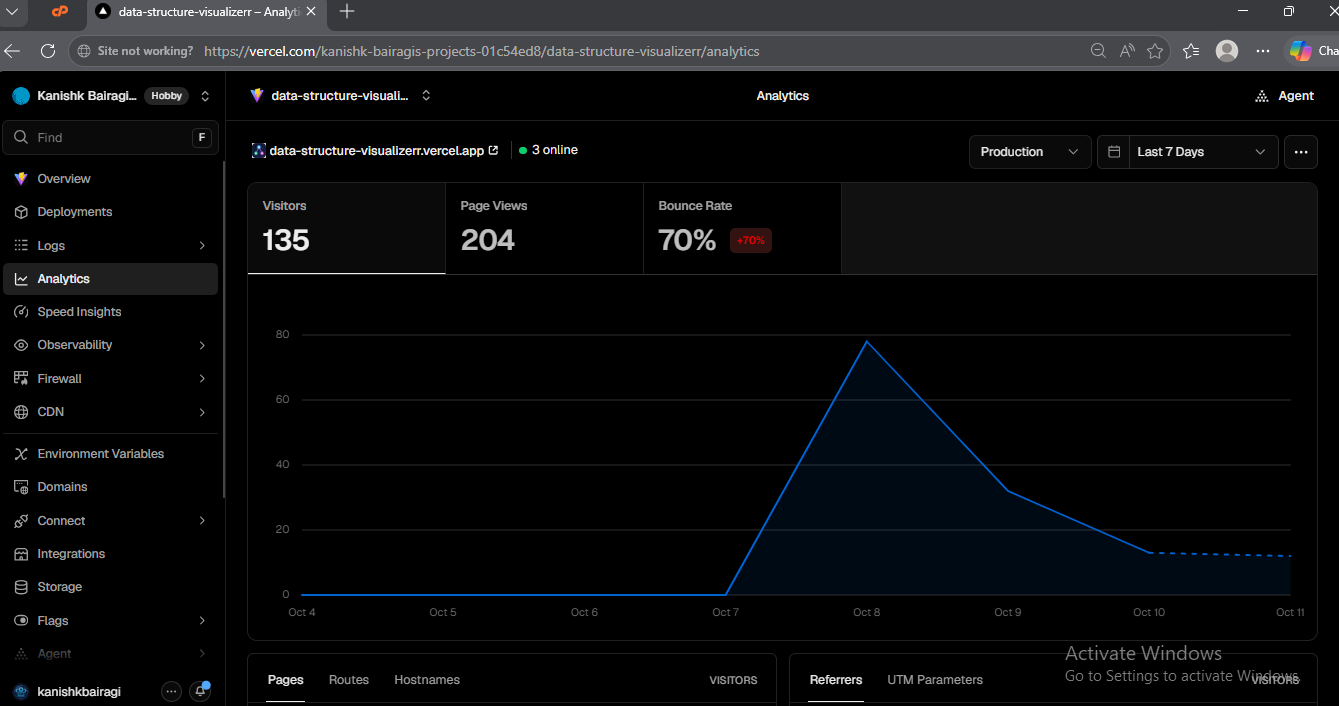
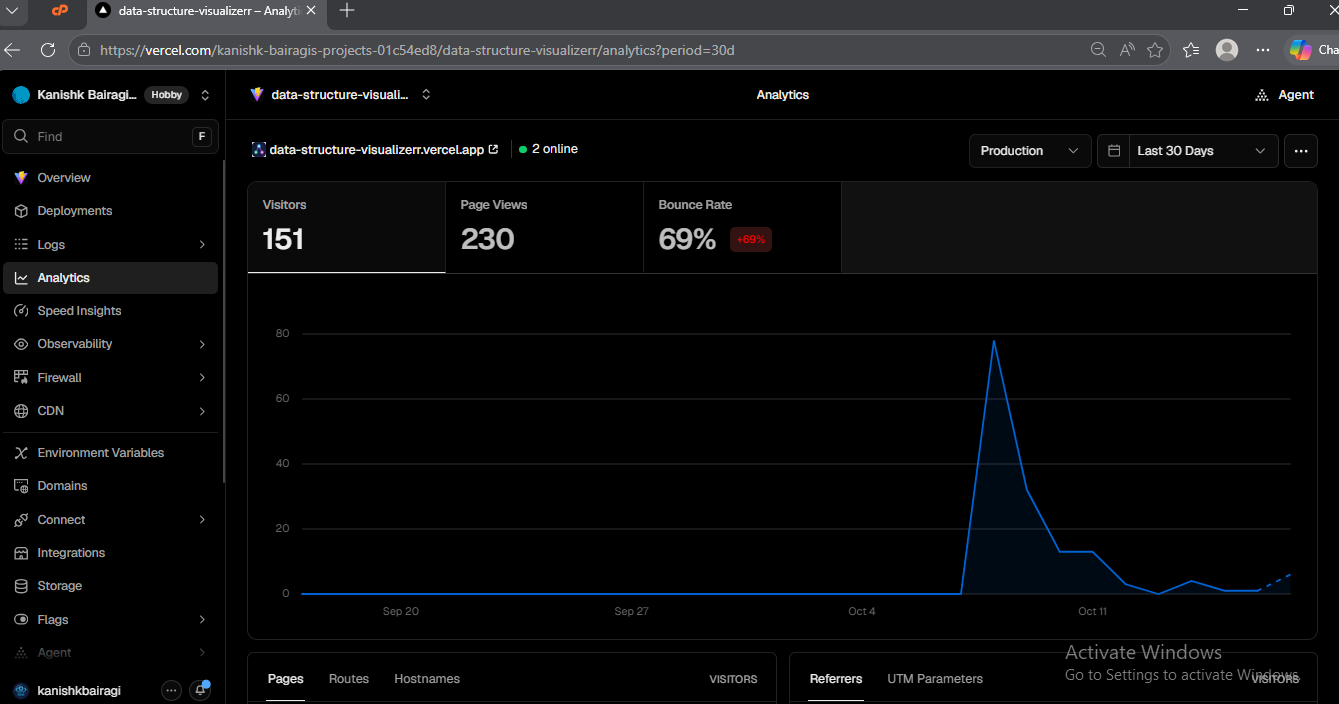
Changed

diff --git a/src/data/projects.js b/src/data/projects.js
@@ -5,6 +5,8 @@ import notationsImg from '../assets/projects/notations.png';
 import habitGraphImg from '../assets/projects/Habit-graph.png';
 import data1Img from '../assets/data1.png';
 import data2Img from '../assets/data2.png';
+import note1Img from '../assets/note1.png';
+import note2Img from '../assets/note2.png';
 
 export const projects = [
     {
@@ -115,12 +117,12 @@ export const projects = [
         demo: "https://data-structure-visualizerr.vercel.app",
         image: dataStructureImg,
         metaBadges: [
-            "135+ Verified Users (8 Countries)",
+            "151+ Verified Users (9 Countries)",
             "O(log N) AVL Guaranteed",
             "Vercel Telemetry"
         ],
-        description: "Built an interactive execution engine to help students visualize abstract data structures and runtime invariants in real time. Features animated AVL tree self-balancing across all 4 rotation archetypes, Dijkstra's shortest path relaxation, and contiguous dynamic array buffer doubling (C -> 2C). Validated by 135+ international students across 8 countries.",
-        overviewDescription: "Built an interactive execution engine to help students visualize abstract data structures and runtime invariants in real time. Features animated AVL tree self-balancing across all 4 rotation archetypes, Dijkstra's shortest path relaxation, and contiguous dynamic array buffer doubling (C -> 2C). Validated by 135+ international students across 8 countries during computer science coursework.",
+        description: "Built an interactive execution engine to help students visualize abstract data structures and runtime invariants in real time. Features animated AVL tree self-balancing across all 4 rotation archetypes, Dijkstra's shortest path relaxation, and contiguous dynamic array buffer doubling (C -> 2C). Validated by 151+ international students across 9 countries.",
+        overviewDescription: "Built an interactive execution engine to help students visualize abstract data structures and runtime invariants in real time. Features animated AVL tree self-balancing across all 4 rotation archetypes, Dijkstra's shortest path relaxation, and contiguous dynamic array buffer doubling (C -> 2C). Validated by 151+ international students across 9 countries during computer science coursework.",
         cardHighlights: [
             "Dynamic AVL Self-Balancing with 4 Rotation Archetypes (LL, RR, LR, RL) maintaining strict O(log N) search bounds.",
             "Dijkstra's Shortest Path Tree (SPT) with Real-Time Distance Vector Relaxation & Priority Queue simulation."
@@ -129,7 +131,7 @@ export const projects = [
             "Dynamic AVL Self-Balancing with 4 Rotation Archetypes (LL, RR, LR, RL) enforcing height bounds h < 1.44 log2(N+2).",
             "Dijkstra's Shortest Path Tree (SPT) with real-time distance-vector relaxation and Priority Queue extraction.",
             "Trie lexicographical traversal with prefix search in O(L) time where L is word length.",
-            "Amortized analysis demonstrator with buffer doubling (C -> 2C); evaluated by 135+ international student users across 8 countries with 82% mobile engagement."
+            "Amortized analysis demonstrator with buffer doubling (C -> 2C); evaluated by 151+ international student users across 9 countries with 79% mobile engagement."
         ],
         metrics: [
             { label: "Core ADTs", value: "7 Structures" },
@@ -147,27 +149,28 @@ export const projects = [
         extraSkillsCount: 4,
         telemetry: {
             title: "Production Telemetry & Real-World Adoption",
+            badgeText: "151+ Users Across 9 Countries",
             description: "Empirical telemetry and interaction metrics collected from Vercel analytics demonstrating international student usage and cross-platform verification.",
             stats: [
-                { label: "Verified Users", value: "135+ Students", sub: "Peak Interaction" },
-                { label: "Interaction Sessions", value: "200+ Page Views", sub: "Algorithmic Runs" },
-                { label: "Global Reach", value: "8 Countries", sub: "Multi-Region" },
-                { label: "Mobile Responsiveness", value: "82% Mobile", sub: "Cross-Platform" }
+                { label: "Verified Users", value: "151+ Visitors", sub: "Production Users" },
+                { label: "Interaction Sessions", value: "230+ Page Views", sub: "Algorithmic Runs" },
+                { label: "Global Reach", value: "9 Countries", sub: "India, US, UK & EU" },
+                { label: "Mobile Responsiveness", value: "79% Mobile", sub: "Cross-Platform" }
             ],
             screenshots: [
                 {
                     id: 1,
                     title: "Live Traffic & Interaction Peak",
-                    metricBadge: "135+ Unique Visitors • 200+ Page Views",
+                    metricBadge: "151+ Unique Visitors • 230+ Page Views",
                     image: data1Img,
-                    caption: "Live Traffic Telemetry: 135+ verified student users and 200+ algorithmic interaction sessions."
+                    caption: "Live Traffic Telemetry: 151+ verified unique student visitors and 230+ algorithmic interaction page views."
                 },
                 {
                     id: 2,
                     title: "Geographic Distribution & Device Breakdown",
-                    metricBadge: "8 Countries • 82% Mobile Responsiveness",
+                    metricBadge: "9 Countries • 79% Mobile Responsiveness",
                     image: data2Img,
-                    caption: "Global Demographics: Multi-region adoption across 8 countries (India, USA, UK, Switzerland, France, etc.) with 82% mobile & 17% desktop usage."
+                    caption: "Global Demographics: Multi-region adoption across 9 countries (India: 134, USA: 9, UK: 2, Netherlands: 2, Switzerland, France, Philippines, Poland, Singapore) with 79% mobile & 20% desktop usage."
                 }
             ]
         },
@@ -223,7 +226,7 @@ export const projects = [
                 { metric: "TRIE LOOKUP TIME", value: "O(L)", benchmark: "Sub-linear Prefix Traversal", status: "Optimal" },
                 { metric: "ARRAY APPEND COST", value: "Amortized O(1)", benchmark: "Verified via Buffer Doubling", status: "Optimal" },
                 { metric: "RENDERING TARGET", value: "60 FPS", benchmark: "Throttled Async Frame Queue", status: "Optimal" },
-                { metric: "ACADEMIC ADOPTION", value: "135+ Verified Users", benchmark: "8 Countries • Vercel Telemetry", status: "Telemetry" }
+                { metric: "ACADEMIC ADOPTION", value: "151+ Verified Users", benchmark: "9 Countries • Vercel Telemetry", status: "Telemetry" }
             ]
         }
     },
@@ -277,13 +280,19 @@ export const projects = [
         github: "https://github.com/kanishkbairagi/notation-app.git",
         demo: "https://notation-app-six.vercel.app/",
         image: notationsImg,
-        description: "A graph-based knowledge base that combines an interactive force-directed graph with an Okapi BM25 search engine. Simulates graph layout using Coulomb repulsion and Hooke spring physics on HTML5 Canvas at 60 FPS. Features sub-2ms search queries powered by an inverted index and prefix Trie, along with BFS shortest-path traversal between connected notes.",
+        metaBadges: [
+            "52+ Verified Users (7 Countries)",
+            "BM25 Sub-2ms Queries",
+            "Vercel Telemetry"
+        ],
+        description: "A graph-based knowledge base that combines an interactive force-directed graph with an Okapi BM25 search engine. Simulates graph layout using Coulomb repulsion and Hooke spring physics on HTML5 Canvas at 60 FPS. Features sub-2ms search queries powered by an inverted index and prefix Trie, along with BFS shortest-path traversal between connected notes. Evaluated by 52+ users across 7 countries.",
+        overviewDescription: "A graph-based knowledge base combining an interactive force-directed graph with an Okapi BM25 search engine. Simulates graph layout using Coulomb repulsion and Hooke spring physics on HTML5 Canvas at 60 FPS with sub-2ms queries. Validated by 52+ global users across 7 countries.",
         highlights: [
             "Force-Directed Physics on HTML5 Canvas: Coulomb repulsion, Hooke spring attraction & damping velocity relaxation at 60 FPS",
             "Okapi BM25 Probabilistic Ranking: Calibrated term saturation (k1=1.2) and document length normalization (b=0.75)",
             "Inverted Index & Prefix Trie: In-memory postings list Map<Term, PostingsList> with sub-2ms O(L) prefix autocomplete",
             "Graph Theory Analytics: Degree Centrality CD(v) = deg(v)/(|V|-1) and BFS Shortest Path traversal in O(|V| + |E|)",
-            "AST-Driven Knowledge Graph: Bidirectional [[WikiLink]] parsing into an adjacency list with backlinks drawer"
+            "AST-Driven Knowledge Graph: Bidirectional [[WikiLink]] parsing into an adjacency list with backlinks drawer; verified by 52+ visitors across 7 countries with 75% mobile usage."
         ],
         metrics: [
             { label: "Graph Engine", value: "Force-Directed G=(V,E)" },
@@ -301,6 +310,33 @@ export const projects = [
             "React.js"
         ],
         extraSkillsCount: 3,
+        telemetry: {
+            title: "Production Telemetry & Real-World Adoption",
+            badgeText: "52+ Users Across 7 Countries",
+            description: "Empirical telemetry and interaction metrics collected from Vercel analytics demonstrating multi-region usage and cross-device interaction.",
+            stats: [
+                { label: "Verified Users", value: "52+ Visitors", sub: "Production Users" },
+                { label: "Interaction Sessions", value: "80+ Page Views", sub: "Graph Explorations" },
+                { label: "Global Reach", value: "7 Countries", sub: "India, US, EU, BR" },
+                { label: "Mobile Responsiveness", value: "75% Mobile", sub: "Cross-Platform" }
+            ],
+            screenshots: [
+                {
+                    id: 1,
+                    title: "Live Traffic & Query Engagement",
+                    metricBadge: "52+ Unique Visitors • 80+ Page Views",
+                    image: note1Img,
+                    caption: "Live Traffic Telemetry: 52+ verified unique visitors and 80+ knowledge graph interaction sessions."
+                },
+                {
+                    id: 2,
+                    title: "Geographic Distribution & Device Breakdown",
+                    metricBadge: "7 Countries • 75% Mobile Responsiveness",
+                    image: note2Img,
+                    caption: "Global Demographics: Multi-region adoption across 7 countries (India: 42, USA: 4, Brazil, Germany, Spain, France, Greece, Sweden) with 75% mobile & 25% desktop usage."
+                }
+            ]
+        },
         caseStudy: {
             bannerTitle: "Technical Design Document (RFC) & Information Retrieval Architecture Spec",
             bannerDescription: "Technical design document detailing the HTML5 Canvas physics solver, Okapi BM25 search engine, prefix Trie autocomplete, and bidirectional graph backlinks.",
@@ -353,7 +389,8 @@ export const projects = [
                 { metric: "BFS Pathfinding", value: "O(|V| + |E|)", benchmark: "Shortest Path Traversal", status: "Optimal" },
                 { metric: "Prefix Lookup", value: "O(L)", benchmark: "Trie Stem Autocomplete", status: "Optimal" },
                 { metric: "Graph Simulation", value: "60 FPS", benchmark: "Damped Euler Numerical Solver", status: "Optimal" },
-                { metric: "Centrality Metric", value: "Degree CD(v)", benchmark: "Hub Node Identification", status: "Optimal" }
+                { metric: "Centrality Metric", value: "Degree CD(v)", benchmark: "Hub Node Identification", status: "Optimal" },
+                { metric: "GLOBAL ADOPTION", value: "52+ Verified Users", benchmark: "7 Countries • Vercel Telemetry", status: "Telemetry" }
             ]
         }
     },

diff --git a/src/components/ProjectModal.jsx b/src/components/ProjectModal.jsx
@@ -374,7 +374,7 @@ const ProjectModal = ({ project, isOpen, onClose }) => {
                                             <div className="flex items-center gap-1.5 shrink-0">
                                                 <span className="inline-flex items-center gap-1 rounded-full border border-accent/30 bg-accent/10 px-2.5 py-0.5 text-[10px] sm:text-xs font-semibold text-accent">
                                                     <Activity size={11} className="animate-pulse" />
-                                                    135+ Users Across 8 Countries
+                                                    {project.telemetry.badgeText || "Production Telemetry"}
                                                 </span>
                                             </div>
                                         </div>

diff --git a/src/components/Hero.jsx b/src/components/Hero.jsx
@@ -87,7 +87,7 @@ const Hero = () => {
                         transition={{ delay: 0.3 }}
                         className="mt-5 max-w-xl text-base leading-relaxed text-zinc-400 sm:text-lg"
                     >
-                        I can engineer, deploy, secure and improve a complete software system and integrate AI when it provides real value.
+                        I can build, deploy, secure and improve a complete software system and integrate AI when it provides real value.
                     </motion.p>
 
                     <motion.div

diff --git a/README.md b/README.md
@@ -36,7 +36,7 @@ Beyond conventional portfolio websites, this platform functions as an **interact
 
 - ⚡ **Zero Layout Shift (CLS 0.00)** & sub-1.1s First Contentful Paint (FCP) across 46 enterprise routes.
 - 🌳 **Interactive Invariant Visualizer** with verified runtime bounds: $O(\log N)$ AVL tree balance and $O((V+E)\log V)$ Dijkstra shortest path trees.
-- 🌍 **Verified Real-World Telemetry**: Production visualizer evaluated by **135+ international students across 8 countries** with 82% cross-platform mobile adoption.
+- 🌍 **Verified Real-World Telemetry**: Production visualizer evaluated by **151+ international students across 9 countries** with 79% cross-platform mobile adoption.
 - 📐 **Formal Graph Theory Engines**: Directed Acyclic Graph (DAG) cycle rejection via 3-color DFS in $O(|V| + |E|)$ and Kahn’s topological sort.
 - 🔍 **Sub-2ms Information Retrieval**: Canvas-based $n$-body force-directed physics graph with Okapi BM25 probabilistic ranking ($k_1=1.2, b=0.75$) and prefix Trie lookup in $O(L)$ time.
 
@@ -47,8 +47,8 @@ Beyond conventional portfolio websites, this platform functions as an **interact
 | Project | Domain & Role | Core Architecture & Algorithmic Rigor | Key Metrics & Invariants | Links |
 | :--- | :--- | :--- | :--- | :--- |
 | **[Jawam Infotech Official Platform](https://jawaminfotech.com/)** | Enterprise Full-Stack & Frontend Intern (2026) | 46-route React SPA with route-level dynamic code splitting (`React.lazy` / `Suspense`), chunked streaming AI response handling, and automated WebP/AVIF media compression. | **Lighthouse 96+**<br>FCP: 1.05s, LCP: 1.78s<br>Media payload: **-72%** (45MB → 8.2MB) | [Live Demo](https://jawaminfotech.com/) • [GitHub](https://github.com/kanishkbairagi/Jawam-project.git) |
-| **[Algorithmic State Engine & Visualizer](https://data-structure-visualizerr.vercel.app)** | Algorithm & Systems Engineering (2025) | Interactive state engine animating AVL tree rotations across 4 archetypes (LL, RR, LR, RL), Dijkstra shortest-path relaxation, and contiguous dynamic array buffer doubling. | **135+ Verified Users** (8 Countries)<br>AVL Search: $O(\log N)$<br>Dijkstra: $O((V+E)\log V)$<br>Append: Amortized $O(1)$ | [Live Demo](https://data-structure-visualizerr.vercel.app) • [GitHub](https://github.com/kanishkbairagi/data-structure-visualizerr) |
-| **[Topological Knowledge Graph & IR Engine](https://notation-app-six.vercel.app/)** | Systems & Information Retrieval (2025) | HTML5 Canvas $n$-body force-directed physics engine (Coulomb repulsion & Hooke spring relaxation), Okapi BM25 statistical ranking, prefix Trie autocomplete, and BFS pathfinding. | Query Latency: **< 1.8ms**<br>Physics: **60 FPS**<br>BFS: $O(\|V\| + \|E\|)$<br>Prefix: $O(L)$ | [Live Demo](https://notation-app-six.vercel.app/) • [GitHub](https://github.com/kanishkbairagi/notation-app.git) |
+| **[Algorithmic State Engine & Visualizer](https://data-structure-visualizerr.vercel.app)** | Algorithm & Systems Engineering (2025) | Interactive state engine animating AVL tree rotations across 4 archetypes (LL, RR, LR, RL), Dijkstra shortest-path relaxation, and contiguous dynamic array buffer doubling. | **151+ Verified Visitors** (9 Countries)<br>AVL Search: $O(\log N)$<br>Dijkstra: $O((V+E)\log V)$<br>Append: Amortized $O(1)$ | [Live Demo](https://data-structure-visualizerr.vercel.app) • [GitHub](https://github.com/kanishkbairagi/data-structure-visualizerr) |
+| **[Topological Knowledge Graph & IR Engine](https://notation-app-six.vercel.app/)** | Systems & Information Retrieval (2025) | HTML5 Canvas $n$-body force-directed physics engine (Coulomb repulsion & Hooke spring relaxation), Okapi BM25 statistical ranking, prefix Trie autocomplete, and BFS pathfinding. | **52+ Verified Users** (7 Countries)<br>Query Latency: **< 1.8ms**<br>Physics: **60 FPS**<br>BFS: $O(\|V\| + \|E\|)$<br>Prefix: $O(L)$ | [Live Demo](https://notation-app-six.vercel.app/) • [GitHub](https://github.com/kanishkbairagi/notation-app.git) |
 | **[Visual Habit Graph (VHG)](https://visual-habit-graph.vercel.app/)** | Full-Stack & Systems (2025) | Directed Acyclic Graph (DAG) dependency engine with 3-color DFS cycle rejection in $O(\|V\| + \|E\|)$, Kahn’s topological sort, and Critical Path Method (CPM) dynamic programming. | Cycle Reject: $O(\|V\| + \|E\|)$<br>Topological Sort: $O(\|V\| + \|E\|)$<br>CPM Slack: $0$ critical path | [Live Demo](https://visual-habit-graph.vercel.app/) • [GitHub](https://github.com/kanishkbairagi/visual-habit-graph.git) |
 | **[Emoji Mood Diary](https://emoji-based-mood-diary-with-color-a.vercel.app/)** | Interactive Web Apps (2025) | Responsive mood journal with color-adaptive theme switching, Framer Motion micro-animations, and client-side persistence. | Instantaneous transitions<br>Responsive UI states | [Live Demo](https://emoji-based-mood-diary-with-color-a.vercel.app/) • [GitHub](https://github.com/kanishkbairagi/emoji-based-mood-diary-with-color-adaptive-themes.git) |
 
